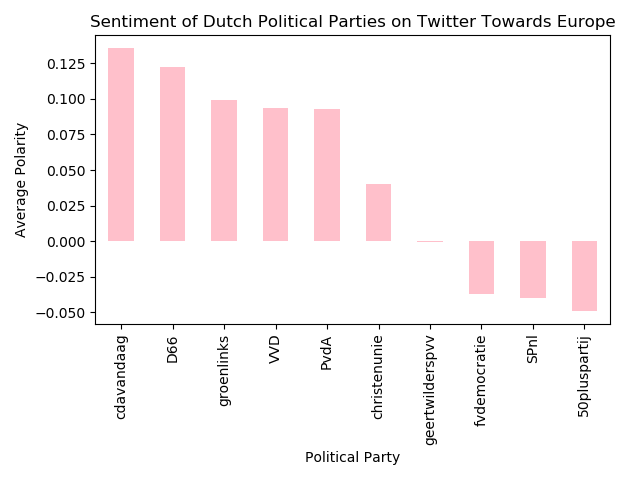
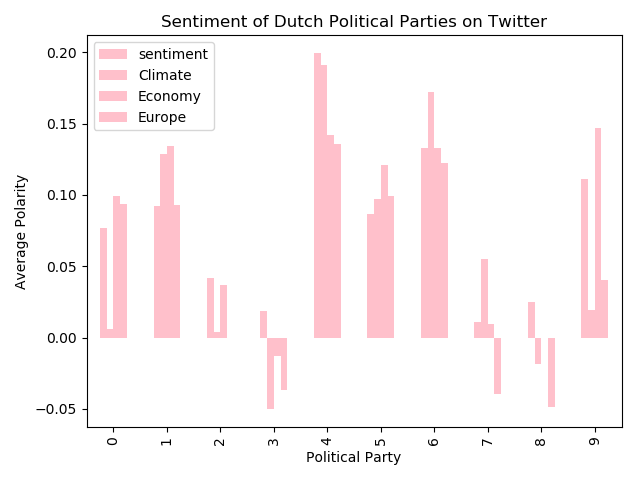
Combine sentiments for different topics in one plot

diff --git a/process_tweets.py b/process_tweets.py
@@ -143,17 +143,22 @@ def compute_labels(tweets_df):
 
 # Plot the sentiment of political parties towards certain topics
 def plot_sentiment_topic(tweets_df):
+    sentiments = pd.DataFrame({'political_party': tweets_df['political_party'].unique()})
+    sentiment_dict = tweets_df.groupby('political_party')['polarity'].mean().to_dict()
+    sentiments['sentiment'] = sentiments['political_party'].map(sentiment_dict)
     for filename in os.listdir('topics'):
         topic = filename.replace('.txt', '')
         topic_tweets = tweets_df[tweets_df[topic] == True]
-        average_polarity = topic_tweets.groupby('political_party')['polarity'].mean().sort_values(ascending=False)
-        average_polarity.plot.bar(color="pink")
-        plt.xlabel("Political Party")
-        plt.ylabel("Average Polarity")
-        plt.title("Sentiment of Dutch Political Parties on Twitter Towards "+topic)
-        plt.tight_layout()
-        plt.savefig("plots/sentiment_"+topic+".png")
-        plt.close()
+        topic_dict = topic_tweets.groupby('political_party')['polarity'].mean().to_dict()
+        sentiments[topic] = sentiments['political_party'].map(topic_dict)
+    sentiments = sentiments.sort_values(by=['sentiment'], ascending=False)
+    sentiments.plot.bar(x="political_party", colormap='PuRd')
+    plt.xlabel("Political Party")
+    plt.ylabel("Average Polarity")
+    plt.title("Sentiment of Dutch Political Parties on Twitter")
+    plt.tight_layout()
+    plt.savefig("plots/sentiments.png")
+    plt.close()
 
 
 # Compute sentiments and topics and plot them
@@ -162,9 +167,9 @@ def main():
     tweets = clean_data(tweets)
     show_data_summary(tweets)
     tweets = compute_sentiment(tweets)
-    topics = compute_topics(tweets)
-    plot_sentiment(tweets)
-    topics_to_word_cloud(topics)
+    # topics = compute_topics(tweets)
+    # plot_sentiment(tweets)
+    # topics_to_word_cloud(topics)
     tweets = compute_labels(tweets)
     plot_sentiment_topic(tweets)
 
